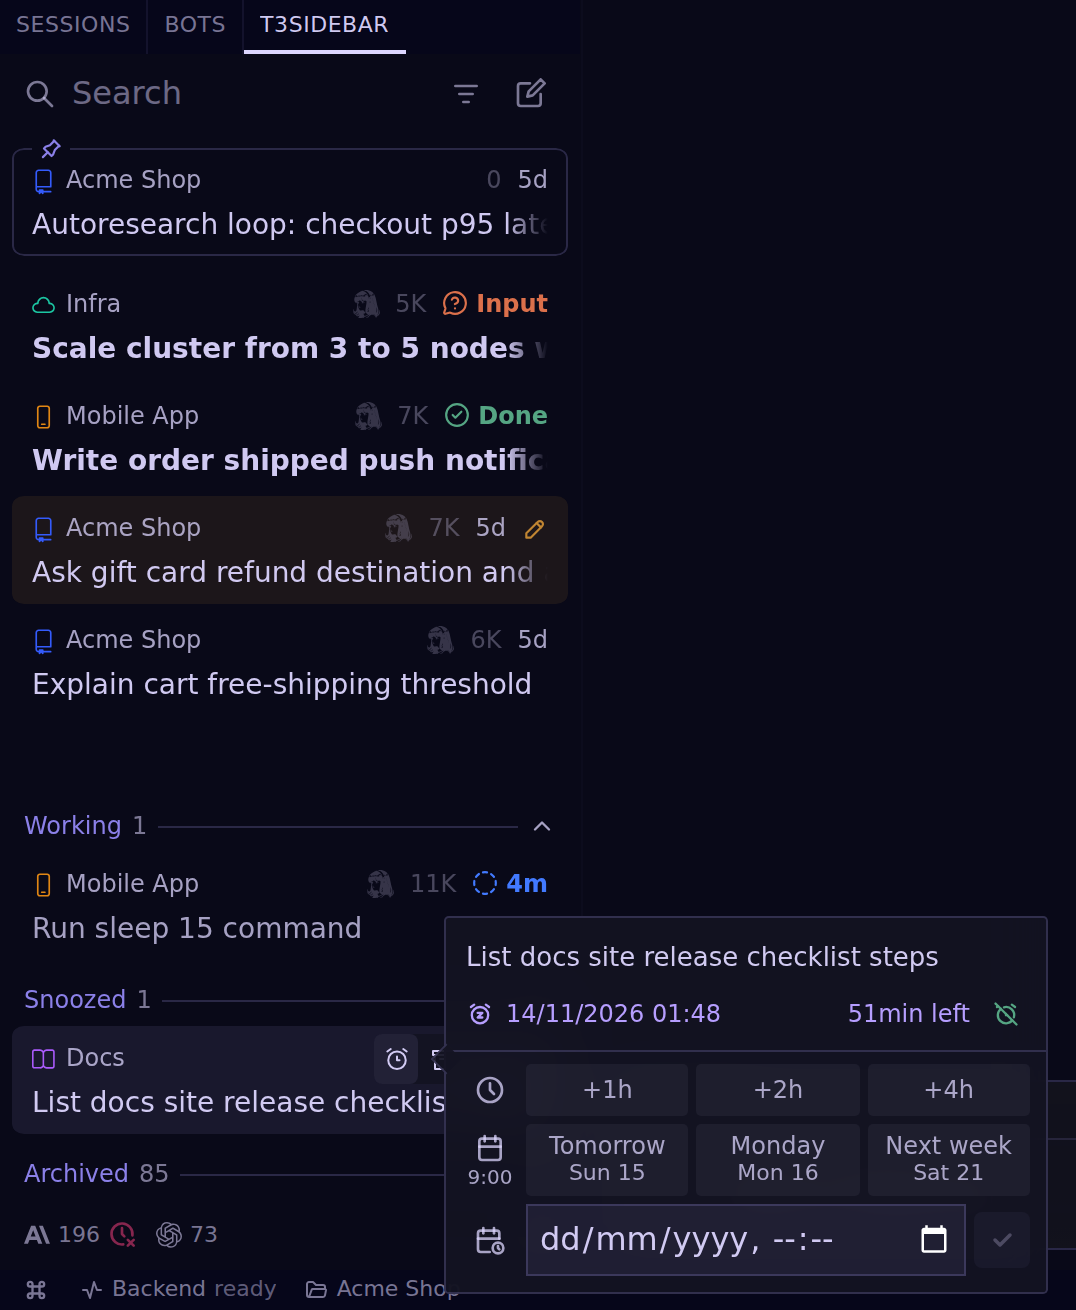
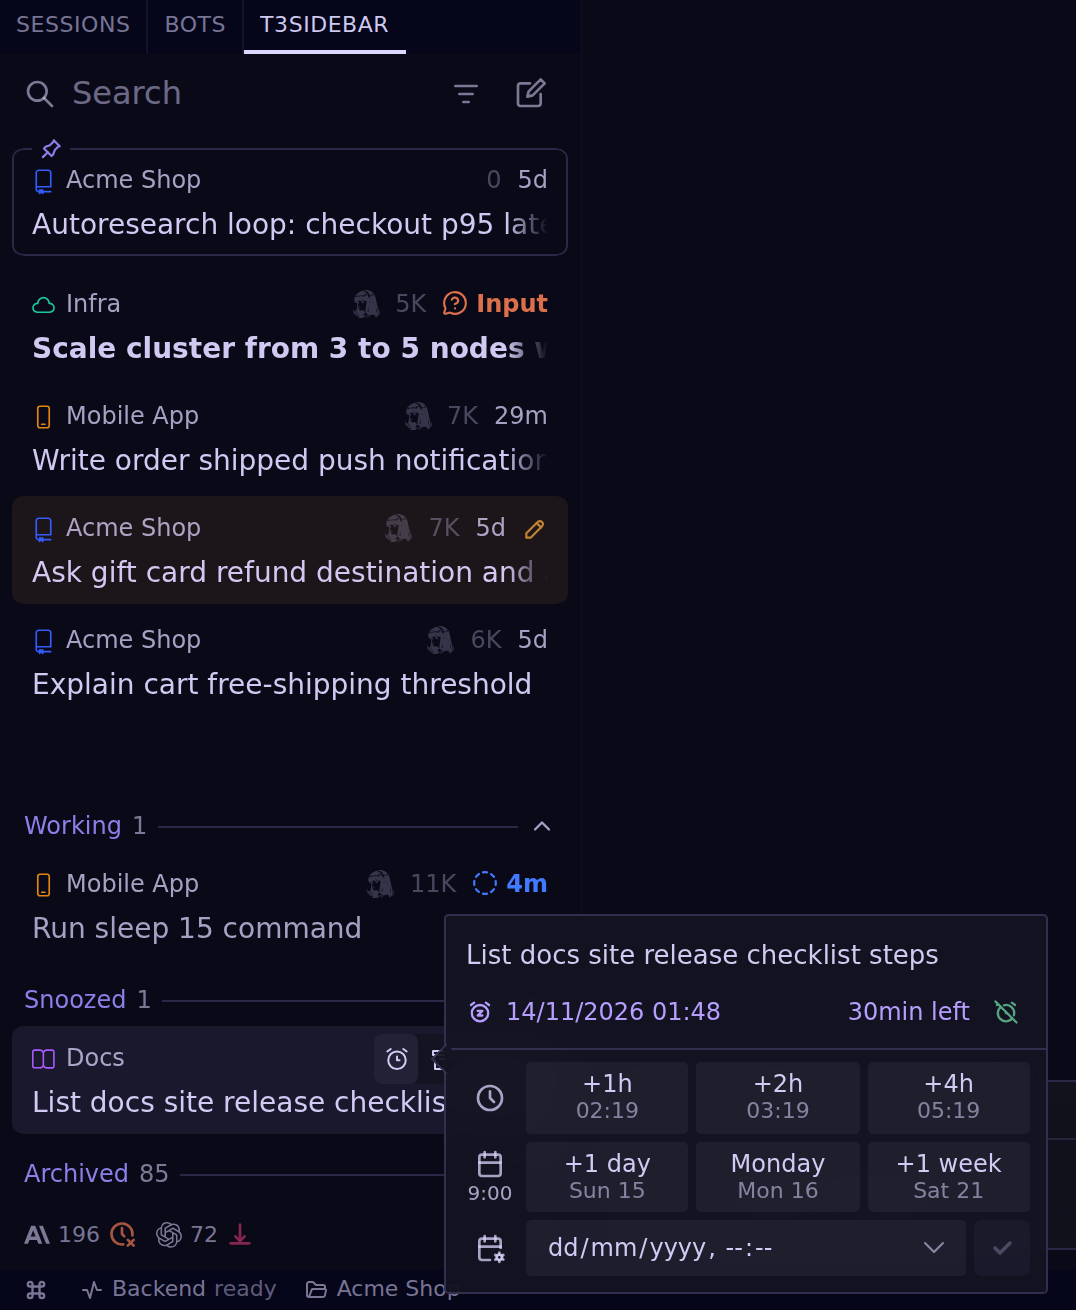
docs: Snooze and Limits screenshots after merging main
The Snooze menu now offers +1 day, Monday and +1 week and shows each hour button's wake time.

diff --git a/README.md b/README.md
@@ -77,7 +77,7 @@
 - +1h, +2h, +4h; +1 day, Monday or +1 week at the preset time; or a custom local date and time.
 - Never stops or resumes an agent.
 
-![Snoozed session menu: wake date and time left, Unsnooze, +1h, +2h, +4h, Tomorrow, Monday and Next week at 9:00, custom date input](docs/images/snooze.png)
+![Snoozed session menu: wake date and time left, Unsnooze, +1h, +2h and +4h with their wake times, +1 day, Monday and +1 week at 9:00, custom date input](docs/images/snooze.png)
 
 ### Settings
 
